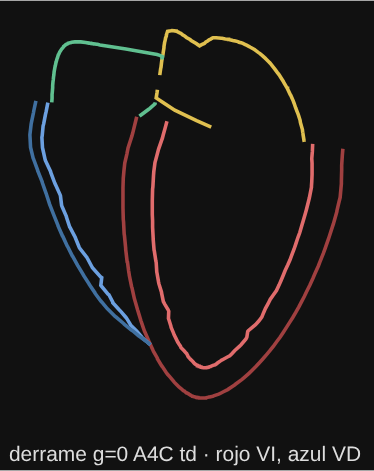
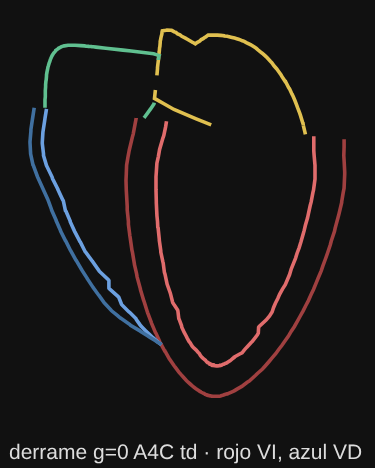
mv-eco P5a: papilares y trabéculas del VI siguen al cuadrado de la proporción de la cavidad (dibujo nuevo)
Diagnóstico: el centro de la cavidad del VI pequeño es negro (7-11 de 255, igual que el VD); lo gris es la franja junto a la pared. Herramienta brillo-zonas con centro de cavidad. Sin cambio de ecografia.mjs.

diff --git a/autonomo/bloques/mv-eco/capturas-realismo/cifras.md b/autonomo/bloques/mv-eco/capturas-realismo/cifras.md
@@ -1,44 +1,5 @@
 # Cifras de la app en cada captura (telediástole = fase A, contracción auricular; g = mando de gravedad)
 
-## normal-a4c (normal, a4c, dibujo 2)
-- fase: A · Contracción auricular
-- titulo: A4C
-- grav: 
-- Último latido: PA 105/66 (PAM 86) · FC 69 · GC 5.1 L/min · PVC 4
-- VI en esta fase: 119 mL · 10 mmHg
-- VD en esta fase: 138 mL · 6 mmHg
-- Aorta: 71 mmHg · AP 13
-- Aurículas: AI 25 · AD 18 mL
-- VI/VD telediastólico (el que dibuja la imagen): VI 120 mL · VD 138 mL
-- motor: FC 69 · PAM 86 · PA 105/undefined · GC 5.07 · PVC 4.3
-- pantalla: mezcla
-
-## normal-psax (normal, psaxPm, dibujo 2)
-- fase: A · Contracción auricular
-- titulo: PSAX papilares
-- grav: 
-- Último latido: PA 105/66 (PAM 86) · FC 69 · GC 5.1 L/min · PVC 4
-- VI en esta fase: 119 mL · 10 mmHg
-- VD en esta fase: 138 mL · 6 mmHg
-- Aorta: 71 mmHg · AP 13
-- Aurículas: AI 25 · AD 18 mL
-- VI/VD telediastólico (el que dibuja la imagen): VI 120 mL · VD 138 mL
-- motor: FC 69 · PAM 86 · PA 105/undefined · GC 5.07 · PVC 4.3
-- pantalla: mezcla
-
-## normal-plax (normal, plax, dibujo 2)
-- fase: A · Contracción auricular
-- titulo: PLAX
-- grav: 
-- Último latido: PA 105/66 (PAM 86) · FC 69 · GC 5.1 L/min · PVC 4
-- VI en esta fase: 119 mL · 10 mmHg
-- VD en esta fase: 138 mL · 6 mmHg
-- Aorta: 71 mmHg · AP 13
-- Aurículas: AI 25 · AD 18 mL
-- VI/VD telediastólico (el que dibuja la imagen): VI 120 mL · VD 138 mL
-- motor: FC 69 · PAM 86 · PA 105/undefined · GC 5.07 · PVC 4.3
-- pantalla: mezcla
-
 ## hp-a4c (hpcronica, g=1, a4c, dibujo 2)
 - fase: A · Contracción auricular
 - titulo: A4C
@@ -91,19 +52,6 @@
 - motor: FC 119 · PAM 59 · PA 65/undefined · GC 2.34 · PVC 9.4
 - pantalla: mezcla
 
-## dilatada-a4c (dilatada, g=1, a4c, dibujo 2)
-- fase: A · Contracción auricular
-- titulo: A4C
-- grav: 
-- Último latido: PA 92/68 (PAM 80) · FC 85 · GC 3.7 L/min · PVC 9
-- VI en esta fase: 210 mL · 30 mmHg
-- VD en esta fase: 155 mL · 14 mmHg
-- Aorta: 73 mmHg · AP 31
-- Aurículas: AI 71 · AD 22 mL
-- VI/VD telediastólico (el que dibuja la imagen): VI 211 mL · VD 155 mL
-- motor: FC 85 · PAM 80 · PA 92/undefined · GC 3.75 · PVC 9.3
-- pantalla: mezcla
-
 ## derrame-sc4c (derrame, g=1, sc4c, dibujo 2)
 - fase: A · Contracción auricular
 - titulo: SC 4C
@@ -115,32 +63,6 @@
 - Aurículas: AI 30 · AD 18 mL
 - VI/VD telediastólico (el que dibuja la imagen): VI 44 mL · VD 46 mL
 - motor: FC 118 · PAM 60 · PA 66/undefined · GC 2.36 · PVC 10
-- pantalla: mezcla
-
-## hipertrofia-plax (hipertrofia, g=1, plax, dibujo 2)
-- fase: A · Contracción auricular
-- titulo: PLAX
-- grav: rigidez ×2,2, volumen retenido 300 mL. Ilustrativo: 0 % es el corazón normal y 100 %, el grado 2 (seudonormal).
-- Último latido: PA 97/71 (PAM 84) · FC 76 · GC 3.6 L/min · PVC 6
-- VI en esta fase: 88 mL · 32 mmHg
-- VD en esta fase: 162 mL · 10 mmHg
-- Aorta: 75 mmHg · AP 29
-- Aurículas: AI 50 · AD 23 mL
-- VI/VD telediastólico (el que dibuja la imagen): VI 88 mL · VD 162 mL
-- motor: FC 76 · PAM 84 · PA 97/undefined · GC 3.63 · PVC 6.5
-- pantalla: mezcla
-
-## hp-a4c-dibujo-hoy (hpcronica, g=1, a4c, dibujo 1)
-- fase: A · Contracción auricular
-- titulo: A4C
-- grav: resistencia pulmonar ×12,0, pared del VD ×2,4. Ilustrativo: 0 % es el corazón normal y 100 %, el VD que claudica.
-- Último latido: PA 85/67 (PAM 76) · FC 94 · GC 3.0 L/min · PVC 15
-- VI en esta fase: 60 mL · 9 mmHg
-- VD en esta fase: 228 mL · 20 mmHg
-- Aorta: 70 mmHg · AP 46
-- Aurículas: AI 23 · AD 42 mL
-- VI/VD telediastólico (el que dibuja la imagen): VI 60 mL · VD 228 mL
-- motor: FC 94 · PAM 76 · PA 85/undefined · GC 3.02 · PVC 15.5
 - pantalla: mezcla
 
 ## Errores de consola
